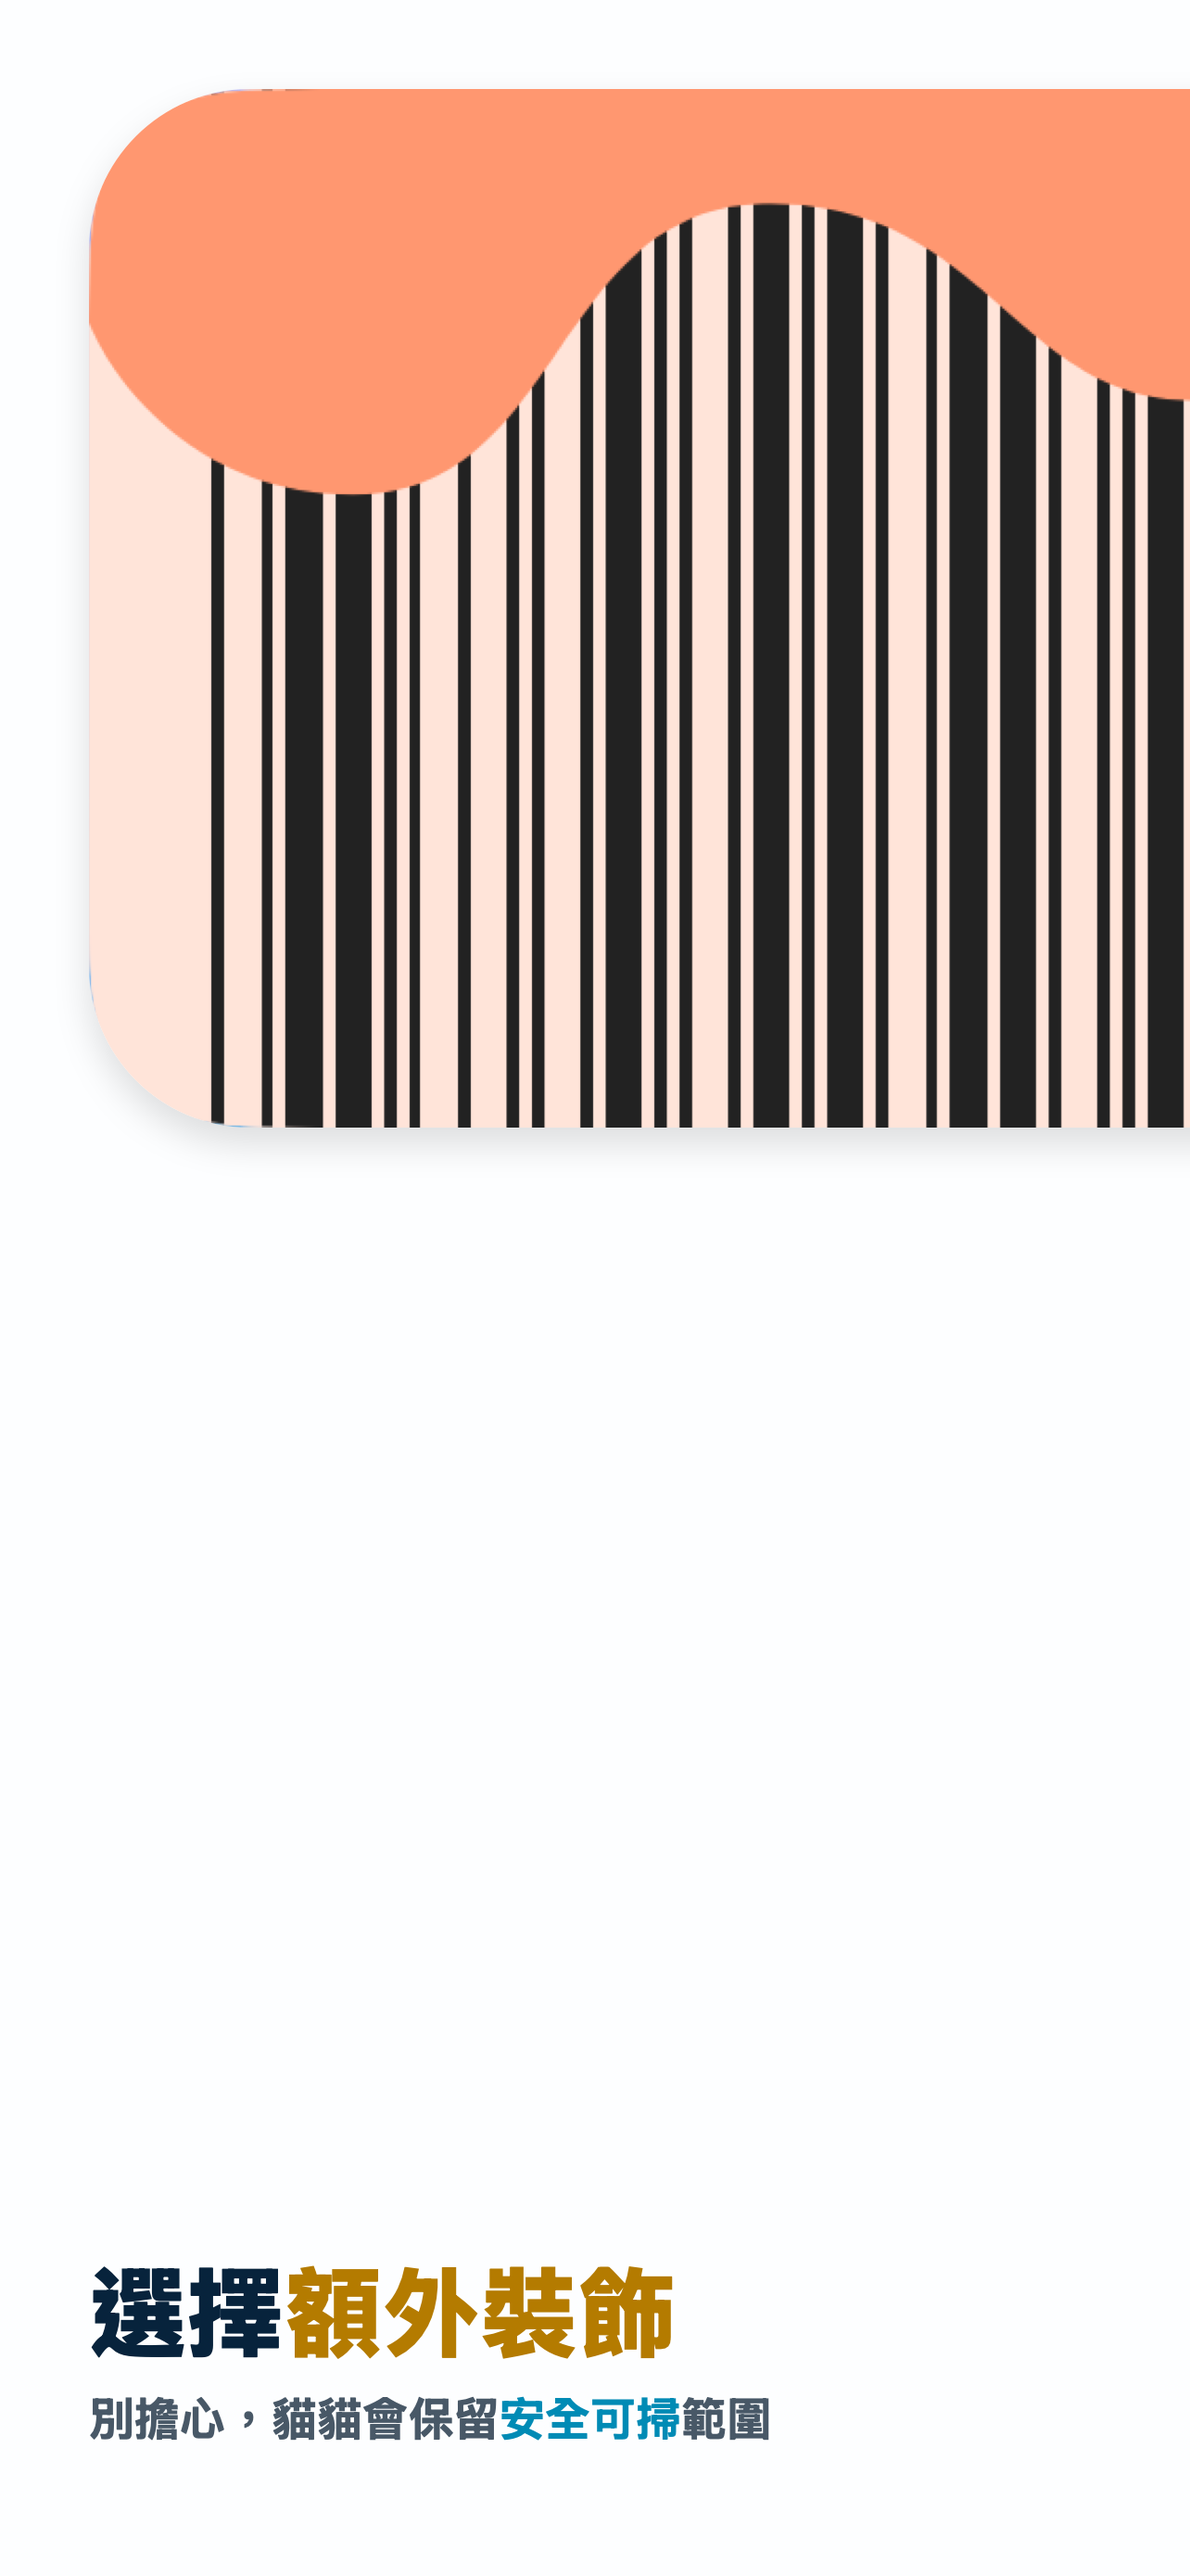
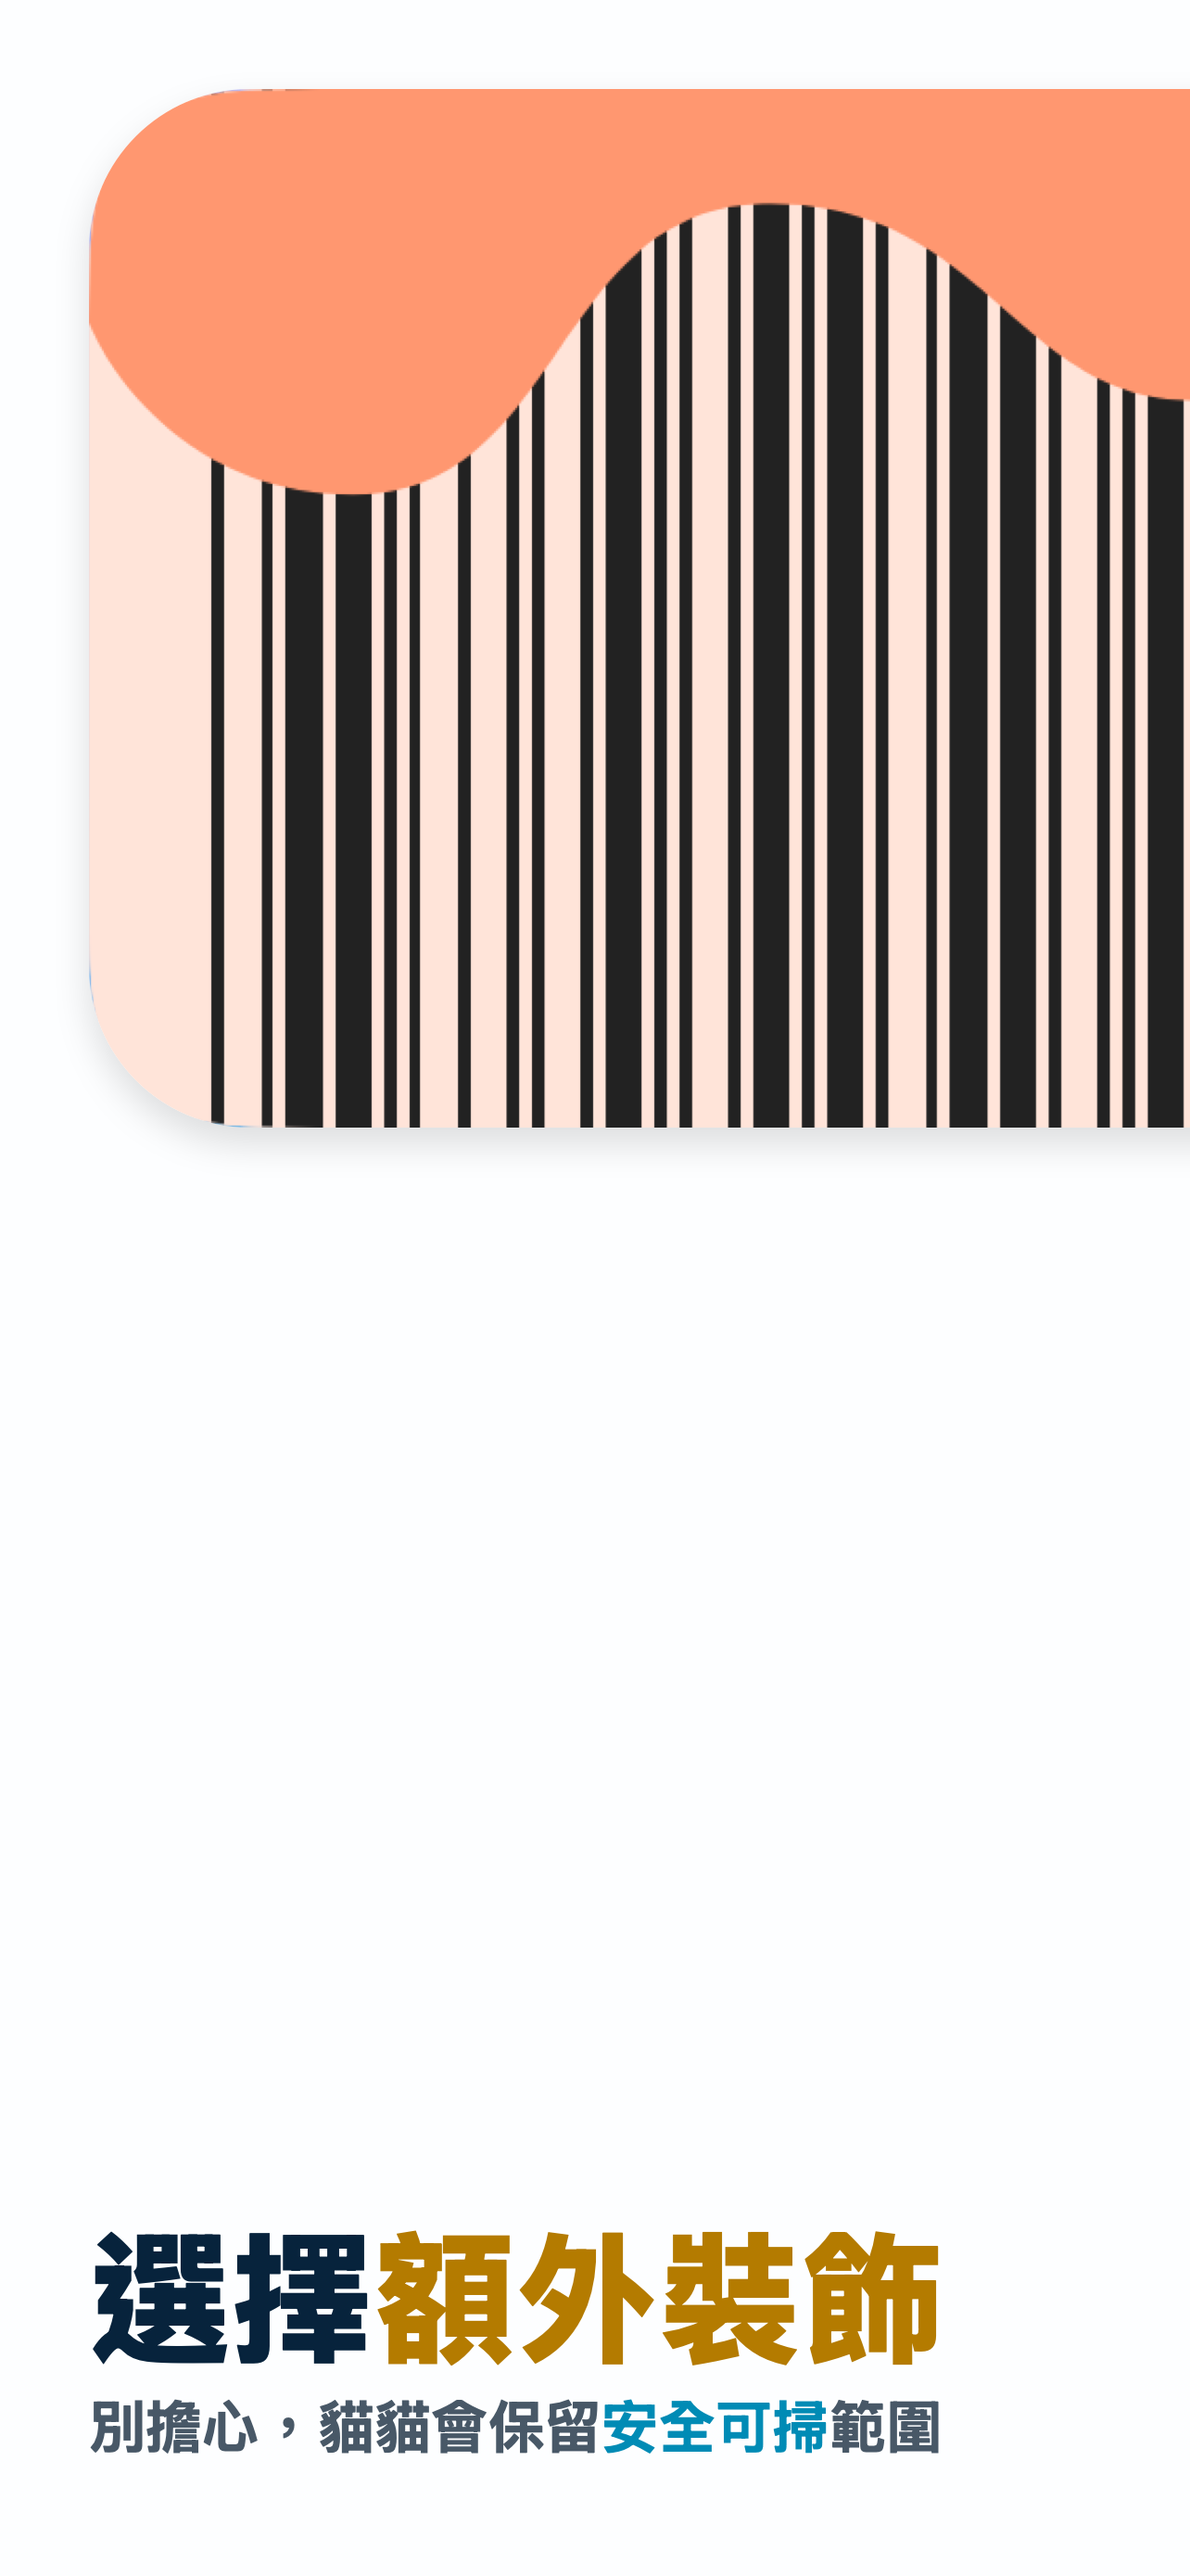
feat: scale screenshot copy to available space

Changed region(s): [[0.0623, 0.8668, 0.81, 0.9597]]

diff --git a/scripts/ios-compose-app-store-screenshots.swift b/scripts/ios-compose-app-store-screenshots.swift
@@ -167,7 +167,7 @@ private struct Composer {
                 title: "提取桌布配色",
                 subtitle: "載具小工具不再破壞桌布氛圍",
                 titleTop: CGFloat(96),
-                subtitleTop: CGFloat(244),
+                subtitleTop: CGFloat(280),
                 alignment: NSTextAlignment.right,
                 titleAccents: [("桌布配色", Artwork.logoYellowText)],
                 subtitleAccents: [("不再破壞桌布氛圍", Artwork.logoBlueText)]
@@ -176,7 +176,7 @@ private struct Composer {
                 panelIndex: 0,
                 title: "選擇額外裝飾",
                 subtitle: "別擔心，貓貓會保留安全可掃範圍",
-                titleTop: CGFloat(2_424),
+                titleTop: CGFloat(2_376),
                 subtitleTop: CGFloat(2_576),
                 alignment: NSTextAlignment.left,
                 titleAccents: [("額外裝飾", Artwork.logoYellowText)],
@@ -187,23 +187,58 @@ private struct Composer {
         for message in messages {
             let panelX = CGFloat(message.panelIndex * Artwork.panelWidth) + Artwork.padding
             let textWidth = CGFloat(Artwork.panelWidth) - Artwork.padding * 2
+            let targetLineWidth = textWidth * 0.85
+            let titleFont = fontFitting(
+                message.title,
+                targetWidth: targetLineWidth,
+                weight: .black,
+                minimumSize: 112,
+                maximumSize: 164
+            )
+            let subtitleFont = fontFitting(
+                message.subtitle,
+                targetWidth: targetLineWidth,
+                weight: .bold,
+                minimumSize: 52,
+                maximumSize: 76
+            )
             drawStyledText(
                 message.title,
-                topRect: CGRect(x: panelX, y: message.titleTop, width: textWidth, height: 144),
-                font: .systemFont(ofSize: 112, weight: .black),
+                topRect: CGRect(x: panelX, y: message.titleTop, width: textWidth, height: 200),
+                font: titleFont,
                 color: Artwork.ink,
                 accents: message.titleAccents,
                 alignment: message.alignment
             )
             drawStyledText(
                 message.subtitle,
-                topRect: CGRect(x: panelX, y: message.subtitleTop, width: textWidth, height: 84),
-                font: .systemFont(ofSize: 52, weight: .bold),
+                topRect: CGRect(x: panelX, y: message.subtitleTop, width: textWidth, height: 100),
+                font: subtitleFont,
                 color: Artwork.muted,
                 accents: message.subtitleAccents,
                 alignment: message.alignment
             )
         }
+    }
+
+    private func fontFitting(
+        _ text: String,
+        targetWidth: CGFloat,
+        weight: NSFont.Weight,
+        minimumSize: CGFloat,
+        maximumSize: CGFloat
+    ) -> NSFont {
+        let referenceSize: CGFloat = 100
+        let referenceFont = NSFont.systemFont(ofSize: referenceSize, weight: weight)
+        let measuredWidth = (text as NSString).size(
+            withAttributes: [.font: referenceFont]
+        ).width
+        let fittedSize = floor(referenceSize * targetWidth / max(1, measuredWidth))
+
+        return .systemFont(
+            ofSize: min(max(fittedSize, minimumSize), maximumSize),
+            weight: weight
+        )
     }
 
     private func drawWidget(image: NSImage, destinationFromTop: CGRect) {

diff --git a/design-qa.md b/design-qa.md
@@ -1,16 +1,16 @@
 # App Store Screenshot Design QA
 
-- Source visual truth: `/tmp/colorinvo-three-copy-panorama.png`, revised by the latest user brief to retain only two larger copy groups at the panorama's top-right and bottom-left corners.
+- Source visual truth: `/tmp/colorinvo-smaller-copy-panorama.png`, revised by the latest user brief so both remaining copy groups occupy approximately 85% of their usable card width.
 - Implementation screenshots: `/Users/hsi/Projects/Apps/Mobile/ColorInvo/assets/screenshots/colorinvo-iphone-6-5-01-wallpaper-palette.png`, `/Users/hsi/Projects/Apps/Mobile/ColorInvo/assets/screenshots/colorinvo-iphone-6-5-02-decorations.png`, `/Users/hsi/Projects/Apps/Mobile/ColorInvo/assets/screenshots/colorinvo-iphone-6-5-03-scanner-widget.png`
 - Viewport: three adjacent 1284 × 2778 App Store screenshots; combined panorama 3852 × 2778.
 - State: Traditional Chinese showcase data, light appearance, orange paint widget with `#222222` bars and blue cat widget.
-- Full-view comparison evidence: `/tmp/colorinvo-two-copy-comparison.png`.
-- Focused comparison evidence: `/tmp/colorinvo-two-copy-contact.png` verifies the three isolated-card crops, opposing text alignment, and the text-free center bridge.
+- Full-view comparison evidence: `/tmp/colorinvo-85-copy-comparison.png`.
+- Focused comparison evidence: `/tmp/colorinvo-85-copy-contact.png` verifies the three isolated-card crops, enlarged typography, opposing alignment, and the text-free center bridge.
 
 ## Findings
 
 - No actionable P0, P1, or P2 differences remain.
-- Fonts and typography: the two remaining headlines increase from 88 px to 112 px black, and supporting text increases from 44 px semibold to 52 px bold. Color emphasis is limited to 桌布配色、不再破壞桌布氛圍、額外裝飾 and 安全可掃. All copy remains on one line without truncation.
+- Fonts and typography: each line is fitted independently to 85% of the 1112 px usable card width. Both headlines render at 163 px black; the top-right supporting line renders at 75 px bold and the bottom-left supporting line at 65 px bold. Color emphasis remains limited to 桌布配色、不再破壞桌布氛圍、額外裝飾 and 安全可掃. All copy remains on one line without truncation.
 - Spacing and layout rhythm: the orange paint widget begins 96 px from the panorama's top-left and the blue cat widget ends 96 px from the bottom-right. Both retain their native 329:155 ratio and stay centered on their seams. 提取桌布配色 is right-aligned in the panorama's top-right corner; 選擇額外裝飾 is left-aligned in the bottom-left corner. The opposite anchors balance the strip while the center card becomes an uninterrupted visual bridge.
 - Colors and visual tokens: the paint area remains app-icon orange `#FF9770`, its scanner-safe background remains peach `#FFE4D9`, and its barcode bars are now neutral black `#222222`. The blue widget retains its tint derived from app-icon blue `#70D6FF`. Under the app's red-light reflectance model, the blue pair has background/bar reflectance 0.749/0.000 and symbol contrast 0.749; the orange widget pair has 1.000/0.133 and symbol contrast 0.867. Both exceed the 0.70 commercial guidance threshold.
 - Image quality and asset fidelity: both elements are real widget captures, not reconstructed illustrations. Their native masks, barcode geometry, cat damage treatment, paint shape, and shadows remain sharp at 1284 × 2778 output.
@@ -24,7 +24,8 @@
 4. The correction restored the orange paint and peach background, limited dark yellow to the barcode bars, and added blue emphasis to 不再破壞桌布氛圍.
 5. The final color refinement changed those bars to `#222222` and moved the card 2 copy group 60 px closer to the cat widget.
 6. The two-message refinement removed 好看，也好掃, enlarged the remaining copy, and anchored the two groups at opposite outer corners.
-7. The full panorama and isolated-card comparison found no remaining P0, P1, or P2 issues.
+7. The typography refinement fits every remaining title and supporting line to approximately 85% of its usable card width.
+8. The full panorama and isolated-card comparison found no remaining P0, P1, or P2 issues.
 
 ## Open Questions
 
@@ -38,6 +39,7 @@
 - [x] Keep the orange paint and peach background while changing only its barcode bars to scan-safe `#222222`.
 - [x] Remove the third copy group.
 - [x] Enlarge the two remaining copy groups.
+- [x] Fit every copy line to approximately 85% of the usable card width.
 - [x] Right-align 提取桌布配色 at the top-right and left-align 選擇額外裝飾 at the bottom-left.
 - [x] Verify all three 1284 × 2778 outputs and standalone crops.
 
